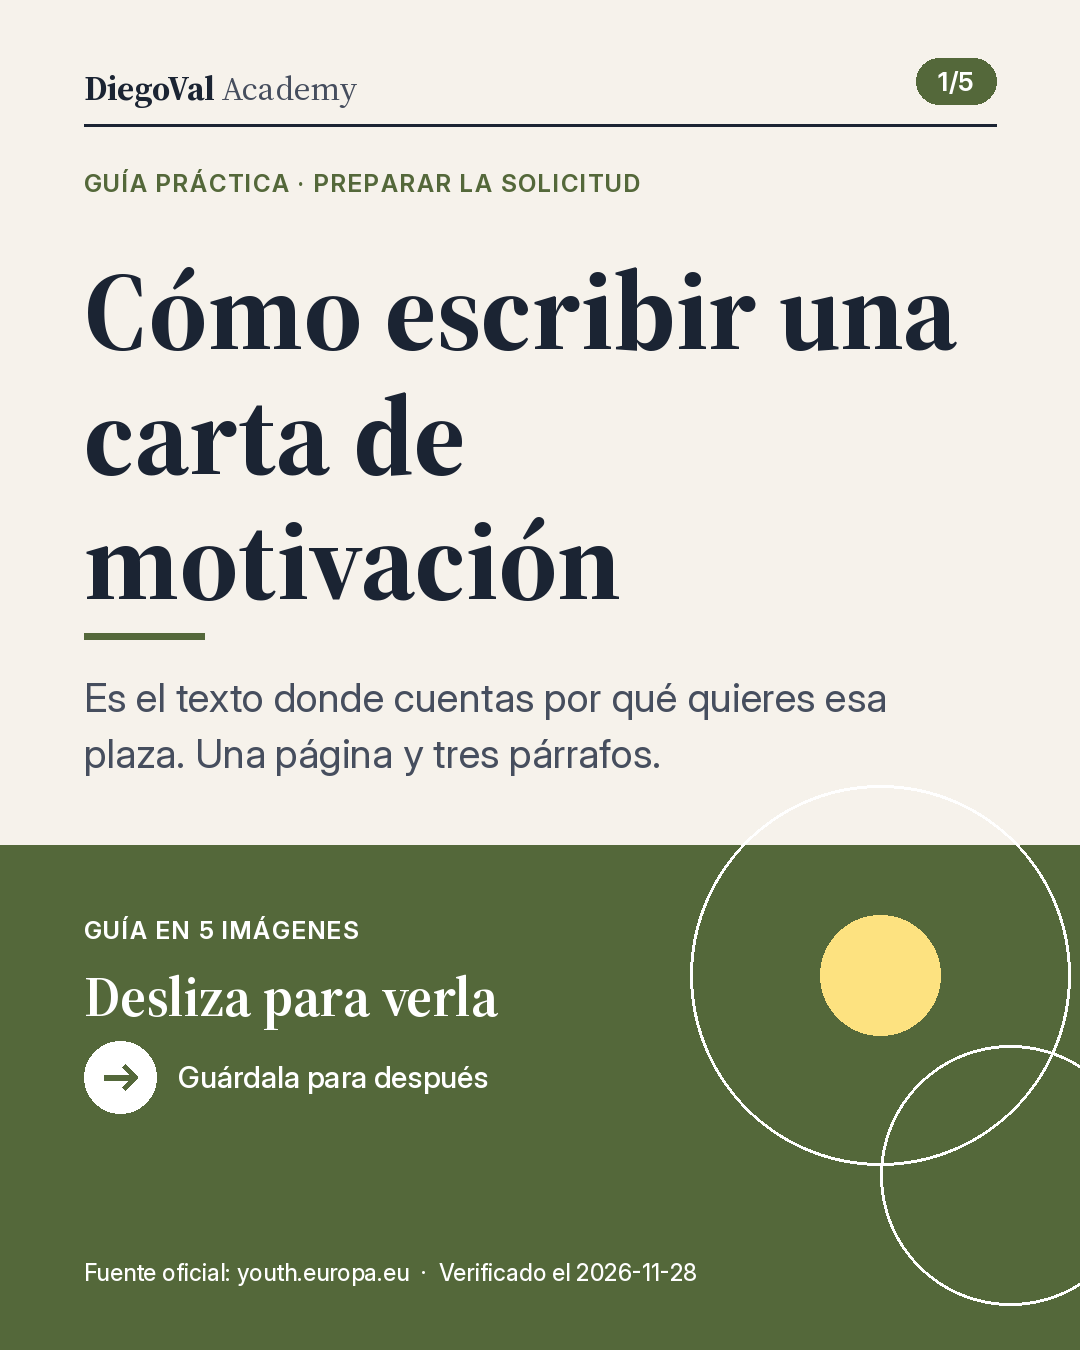
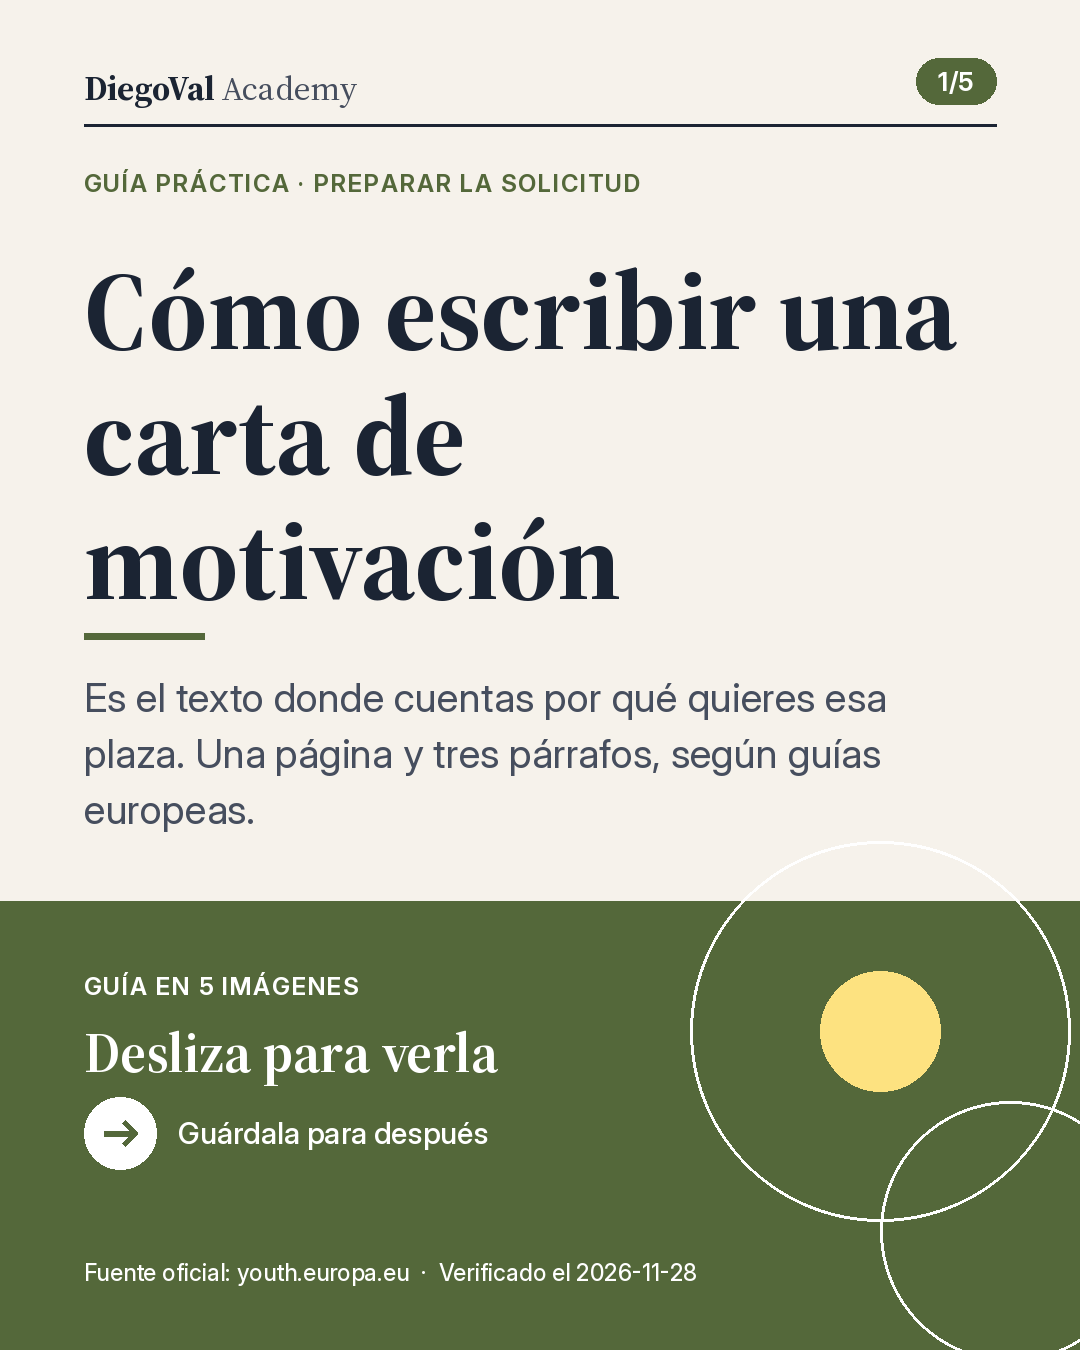
2026-11-28_sabado_carta-motivacion: correcciones tras 1.ª verificación (borrador)
Claude-Session: https://claude.ai/code/session_01HRCw35mQ2RkMvaRyWas8G5

diff --git a/posts/2026-11-28_sabado_carta-motivacion/caption.md b/posts/2026-11-28_sabado_carta-motivacion/caption.md
@@ -1,20 +1,21 @@
-¿Vas a solicitar una beca o un doctorado? Prepara bien tu carta de motivación (el texto donde cuentas por qué quieres esa plaza).
+¿Vas a solicitar una beca o un doctorado? Prepara tu carta de motivación (el texto donde cuentas por qué quieres esa plaza).
 
 En corto:
-• Extensión: la guía de la Unión Europea para jóvenes (para empleos y prácticas) la resume en tres párrafos. Europass, el portal europeo de currículum y cartas, pide que no pase de una página.
-• Párrafo 1: quién eres, qué estudias o estudiaste, y por qué quieres esa plaza.
+• Extensión: una guía oficial de la Unión Europea recomienda escribirla en tres párrafos. Habla de empleos y prácticas, pero sirve como guía general. Europass, el portal europeo de currículum y cartas, pide una página como máximo.
+Una forma de organizarla:
+• Párrafo 1: quién eres, qué estudias y por qué quieres esa plaza.
 • Párrafo 2: tu experiencia más útil, explicada con ejemplos.
-• Párrafo 3: por qué eres buena opción y qué aportas.
+• Párrafo 3: por qué encajas y qué aportas.
 
-Lo que pocos explican: no repitas tu currículum, porque quien lo lee ya lo conoce. Y no pegues un texto hecho con inteligencia artificial tal cual: la guía avisa de que pueden reconocerlo. Reescríbelo con tus palabras.
+Lo que pocos explican: no repitas tu currículum, porque quien lo lee ya lo conoce. Y no pegues un texto hecho con inteligencia artificial (IA) tal cual. La guía pide reescribirlo con tus palabras.
 
 Cómo empezar esta semana:
-1. Lee las reglas de tu convocatoria: algunas ponen límite de caracteres o de páginas.
+1. Lee las reglas de la beca o plaza (la convocatoria): algunas ponen límite de caracteres o de páginas.
 2. Escribe el primer párrafo y pide a alguien que lo lea.
 3. Revisa que no queden marcas como [Nombre] de un modelo anterior.
 
 Guía de la Unión Europea (en inglés): https://youth.europa.eu/go-abroad/working/how-write-good-cv-and-motivation-letter_en
-Europass (en español y otros idiomas): https://europass.europa.eu/en/create-europass-cover-letter
+Europass (en inglés): https://europass.europa.eu/en/create-europass-cover-letter
 
 Verificado el: 2026-11-28
 

diff --git a/posts/2026-11-28_sabado_carta-motivacion/validation.md b/posts/2026-11-28_sabado_carta-motivacion/validation.md
@@ -1,0 +1,28 @@
+# Validación — 2026-11-28_sabado_carta-motivacion
+
+Ejecutado: 2026-11-28T07:07:49+01:00
+Decisión: **BLOQUEADA: no publicar**
+
+| Estado | Comprobación | Detalle |
+|---|---|---|
+| PASS | Archivos obligatorios | imagen: post.json, post.png, caption.md, sources.md, metadata.json |
+| PASS | Metadatos | campos obligatorios presentes |
+| PASS | Imagen | 1080x1350 PNG, 1 archivo (+5 diapositivas de carrusel, ignoradas) |
+| PASS | Canal Buffer | DiegoVal Academy (6ae0bdf22f1f5ed648eb92f9) |
+| PASS | Verificación del día | 2026-11-28 |
+| PASS | Longitud del texto | 1284/1300 caracteres |
+| PASS | Fecha visible en el texto | Verificado el: 2026-11-28 |
+| PASS | Marcadores pendientes | ninguno |
+| PASS | Enlaces documentados en sources.md | 2 enlaces |
+| PASS | Enlace principal en el texto | https://youth.europa.eu/go-abroad/working/how-write-good-cv-and-motivation-letter_en |
+| PASS | Lo que pocos explican | presente en imagen y texto |
+| PASS | Sin URLs en la imagen | sólo dominio de la fuente |
+| PASS | Lenguaje sencillo: siglas (texto) | todas explicadas o ninguna |
+| PASS | Lenguaje sencillo: palabras difíciles (texto) | sin burocracia ni calcos detectados |
+| PASS | Lenguaje sencillo: siglas (imagen) | todas explicadas o ninguna |
+| PASS | Lenguaje sencillo: palabras difíciles (imagen) | sin burocracia ni calcos detectados |
+| PASS | Lenguaje sencillo: frases largas | todas ≤ 32 palabras |
+| FAIL | Lenguaje sencillo: revisión del verificador | falta metadata.plain_language_check con la pregunta exacta, answer 'sí', reviewer y checked_text_sha256 (python3 scripts/validate_post.py <carpeta> --plain-hash) |
+| PASS | Duplicados | sin repeticiones en 40 filas de todas las plataformas (URL canónica, topic_key y vídeo; mismo día en otra red permitido) |
+| PASS | Enlace accesible | 200 https://europass.europa.eu/en/create-europass-cover-letter |
+| PASS | Enlace accesible | 200 https://youth.europa.eu/go-abroad/working/how-write-good-cv-and-motivation-letter_en |

diff --git a/posts/2026-11-28_sabado_carta-motivacion/sources.md b/posts/2026-11-28_sabado_carta-motivacion/sources.md
@@ -3,7 +3,7 @@ Categoría: preparar_solicitud (último sábado: buscar_doctorado, 2026-11-21). 
 
 | URL | Campo | Cita (WebFetch) |
 |---|---|---|
-| https://youth.europa.eu/go-abroad/working/how-write-good-cv-and-motivation-letter_en | Estructura, qué evitar, IA | Página «How to write a good CV and motivation letter» (Portal Europeo de la Juventud, actualizada 19/11/2026). «condense everything into three paragraphs»; párrafo 1 presentación y por qué esa organización; párrafo 2 experiencia relevante; párrafo 3 resumen y cierre. Evitar repetir el CV, texto genérico y marcadores sin reemplazar ([Employer Name]); no copiar y pegar texto de IA, las organizaciones pueden reconocerlo; seguir las reglas de envío (límites de caracteres). |
+| https://youth.europa.eu/go-abroad/working/how-write-good-cv-and-motivation-letter_en | Estructura, qué evitar, IA | Página «How to write a good CV and motivation letter» (Portal Europeo de la Juventud, actualizada 19/11/2026). «condense everything into three paragraphs»; párrafo 1 presentación y por qué esa organización; párrafo 2 experiencia relevante; párrafo 3 resumen y cierre. Evitar repetir el CV, texto genérico y marcadores sin reemplazar ([Employer Name]); no copiar y pegar texto de IA ("never copy and paste directly", "turn any generated texts into your own words"); seguir las reglas de envío (límites de caracteres). |
 | https://europass.europa.eu/en/create-europass-cover-letter | Extensión | «You cover letter should not be longer than one page.» Tres párrafos: motivación, por qué eres el candidato adecuado, por qué encaja la organización; tono formal; fuente sencilla. |
 
 Aviso de alcance: ambas guías hablan de empleos y prácticas; se presentan como orientación general y el post remite a las reglas de cada convocatoria. No se afirma nada sobre becas ni plazos concretos.

diff --git a/posts/2026-11-28_sabado_carta-motivacion/validation_instagram.md b/posts/2026-11-28_sabado_carta-motivacion/validation_instagram.md
@@ -1,0 +1,24 @@
+# Validación Instagram — 2026-11-28_sabado_carta-motivacion
+
+Ejecutado: 2026-11-28T07:07:50+01:00
+Decisión: **BLOQUEADA: no publicar**
+
+| Estado | Comprobación | Detalle |
+|---|---|---|
+| PASS | Archivos obligatorios | 5 imágenes + caption + carousel.json |
+| FAIL | Base verificada (LinkedIn) | falta validation.md APROBADA: el carrusel reutiliza esa investigación |
+| PASS | Imágenes 1080×1350 PNG | 5 imágenes correctas |
+| PASS | Imágenes actualizadas | generadas desde el carousel.json actual |
+| PASS | Imágenes sin URL completa | sólo dominios |
+| PASS | Fecha de verificación | 2026-11-28 |
+| PASS | Caption breve | 487 caracteres (máx. 1000) |
+| PASS | Hashtags | 4 (rango 3-8) |
+| PASS | Verificado el | 2026-11-28 |
+| PASS | Lenguaje sencillo: siglas (texto) | todas explicadas o ninguna |
+| PASS | Lenguaje sencillo: palabras difíciles (texto) | sin burocracia ni calcos detectados |
+| PASS | Lenguaje sencillo: siglas (imagen) | todas explicadas o ninguna |
+| PASS | Lenguaje sencillo: palabras difíciles (imagen) | sin burocracia ni calcos detectados |
+| PASS | Lenguaje sencillo: frases largas | todas ≤ 32 palabras |
+| FAIL | Lenguaje sencillo: revisión del verificador | falta metadata.instagram.plain_language_check (pregunta exacta, answer 'sí', reviewer, checked_text_sha256 = python3 scripts/validate_carousel.py <carpeta> --plain-hash) |
+| PASS | Duplicados (Instagram) | sin repeticiones en ninguna plataforma (mismo día en LinkedIn permitido) |
+| PASS | Verificación de hoy | 2026-11-28 |

diff --git a/posts/2026-11-28_sabado_carta-motivacion/caption_instagram.md b/posts/2026-11-28_sabado_carta-motivacion/caption_instagram.md
@@ -4,7 +4,7 @@ Es el texto donde cuentas por qué quieres esa plaza.
 
 ✅ Tres párrafos cortos, en una página como máximo
 ✅ No repitas tu currículum: da ejemplos concretos
-✅ No pegues un texto de inteligencia artificial tal cual
+✅ No pegues un texto de inteligencia artificial (IA) tal cual
 
 Esta semana: escribe el primer párrafo y pide a alguien que lo lea. Guía oficial de la Unión Europea en youth.europa.eu
 
